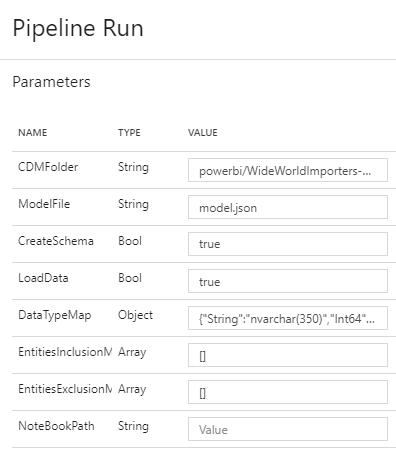
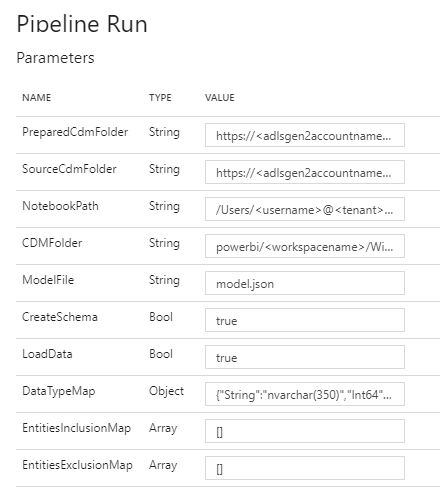
Updated tutorial for clarity, revised ADF params screenshot

diff --git a/Tutorial/CDM-Azure-Data-Services-Integration-Tutorial.md b/Tutorial/CDM-Azure-Data-Services-Integration-Tutorial.md
@@ -50,7 +50,7 @@ Clone or download the repo to your local machine so you have access to these fil
 ### 3.2	Create an Azure resource group
 It’s recommended that you create a new Azure resource group and use it for all Azure resources created in the tutorial.  When you finish the tutorial, delete this resource group to delete all resources.  
 
-> Note: create Azure resources in the same location as your Power BI tenant.  See, [Where is my Power BI tenant located?](https://docs.microsoft.com/power-bi/service-admin-where-is-my-tenant-located)
+> NOTE: create Azure resources in the same location as your Power BI tenant.  See, [Where is my Power BI tenant located?](https://docs.microsoft.com/power-bi/service-admin-where-is-my-tenant-located)
 
 ### 3.3	Create a standard storage account and container for uploading files
 For uploading files used in the tutorial, create a standard (not premium) storage account. This must be a regular storage account, separate from the ADLS Gen2 account.  Do not enable the hierarchical name space on this account. Once created, add a Blob container into which you will upload files.
@@ -194,15 +194,16 @@ In this section, you use an Azure Databricks notebook to process the data in the
         - [**Directory/Tenant ID**](https://docs.microsoft.com/azure/storage/common/storage-auth-aad-app#get-the-tenant-id-for-your-azure-active-directory)
     - Grant the service principal proper permission in Azure storage, which can be done in the Access control (IAM) section.
         - Grant the **Storage Blob Data Contributor** role on the ADLSgen2 account to the application Name or ID you just created.
-3.	To avoid hardcoding the Application ID, Application Key and Tenant ID values in your notebook, you should use Azure Databricks Secrets. Use [these](https://docs.azuredatabricks.net/user-guide/secrets/index.html#secrets-user-guide) instructions to create a secret scope and secrets for the above values. You can also just paste your credentials into the notebook, but that is not recommended.
-4.	Assign appropriate values to the following variables in the notebook. Values to be replaced are also indicated in the notebook in angle brackets <>
+        >NOTE: You need owner permissions on the ADLS Gen2 storage account to do this. 
+3.	To avoid hardcoding the Application ID, Application Key and Tenant ID values in your notebook, you should use Azure Databricks Secrets. Use [these](https://docs.azuredatabricks.net/user-guide/secrets/index.html#secrets-user-guide) instructions to create a secret scope (an Azure Key Vault) and secrets for the above values. You can also just paste your credentials into the notebook, but that is not recommended.
+4.	Assign appropriate values to the following variables in the notebook. Values to be replaced are also indicated in the notebook in angle brackets <>.
 
     |Variable| Value to be assigned|
     |--------|---------------------|
     |inputLocation| Location of the model.json in the input CDM folder. If you are using this notebook as part of an ADF pipeline, populate this from ADF. The values to be replaced in the notebook are **\<adlsgen2accountname\>** and **\<workspacename>**|
-    |outputLocation	| Location of the output CDM folder. This will be created if it does not exist.  If you are using this notebook as part of an ADF pipeline, populate this from ADF. <br> The values to be replaced in the notebook are  **\<adlsgen2accountname>** and **\<workspacename>** <br> <br>  IMPORTANT: It is recommended that the output folder is pre-created if you want to assign specific permissions to the folder and its content. Output data files created within that folder will then inherit those permissions. Not setting permissions first will require you to set the permissions manually file by file. Permissions can be set in Azure Storage Explorer.|
-    | appID	| If you have created a secret scope in Step 3 above, replace  **\<secretscope> ** in the notebook with the scope name you have created. You can also specify the value directly in the notebook that you got from Step 2 above, that is not recommended |
-    | appKey | If you have created a secret scope in Step 3 above, replace  **\<secretscope> ** in the notebook with the scope name you have created. You can also specify the value directly in the notebook that you got from Step 2 above, that is not recommended | 
+    |outputLocation	| Location of the output CDM folder. This will be created if it does not exist.  If you are using this notebook as part of an ADF pipeline, populate this from ADF. <br> The values to be replaced in the notebook are  **\<adlsgen2accountname>** and **\<workspacename>** <br> <br>  IMPORTANT: It is recommended that the output folder is pre-created if you want to assign specific permissions (POSIX ACLs) to the folder and its content. Output data files created within that folder will then inherit those permissions. Not setting permissions first will require you to set the permissions manually file by file. Permissions can be set in Azure Storage Explorer.|
+    | appID	| If you have created a secret scope in Step 3 above, replace  **\<secretscope>** in the notebook with the scope name you have created. You can also specify the value directly in the notebook that you got from Step 2 above, that is not recommended |
+    | appKey | If you have created a secret scope in Step 3 above, replace  **\<secretscope>** in the notebook with the scope name you have created. You can also specify the value directly in the notebook that you got from Step 2 above, that is not recommended | 
     | tenantID	| If you have created a secret scope in Step 3 above, replace  **\<secretscope>** in the notebook with the scope name you have created. You can also specify the value directly in the notebook that you got from Step 2 above, that is not recommended | 
 
 5.	Run All cells in the notebook toolbar. 
@@ -224,7 +225,7 @@ In the sample there are a series of helper methods that use this library to make
 
 #### 4.3.2	Train and publish the machine learning model using data from the CDM folder
 
-Using the **cdm-customer-classification-demo.ipynb** notebook file, load and execute the notebook via a local/remote Jupyter installation or a notebooks.azure.com account. This notebook focuses on some of the unique value when using CDM data in a model.
+Using the **cdm-customer-classification-demo.ipynb** notebook file, load and execute the notebook via a local/remote Jupyter installation or a [notebooks.azure.com](https://notebooks.azure.com) account. This notebook focuses on some of the unique value when using CDM data in a model.
 
 #### 4.3.3	Integrate into Azure Machine Learning services
 In the previous step the ML model is trained but not operationalized/deployed and makes no use of Azure Machine Learning services for experimentation management or deployment. To learn how do to do this complete the below tutorial to understand the steps involved in using these capabilities and then apply the learning/skills to the CDM sample notebook from 4.3.2.
@@ -254,19 +255,21 @@ The pipeline shown above:
 - Creates and then loads tables in SQL Data Warehouse using the CDM folder created by Databricks notebook.
 To invoke the Azure Machine Learning notebook with the location of the prepared CDM folder, you can invoke any custom endpoint with a [Web Activity in ADF](https://docs.microsoft.com/azure/data-factory/control-flow-web-activity) added to the pipeline.
 
+If you are not using Databricks, an alternate pipeline template is provided that omits the PrepareData activity.  
+
 #### 4.5.1	Use Azure Data Factory to create and load staging tables from a CDM folder 
-In this section, using the data in the new CDM Folder, you create and load staging tables in the SQL Data Warehouse you created earlier.  This process is orchestrated by a sample ADF pipeline, which uses custom activities, implemented as serverless Azure Functions, to read the entity definitions from the model.json file in the CDM folder and generate the T-SQL script for creating the staging tables, and then maps the entity data to these tables.  Generating the schema and loading the data are both optional, so you can choose how best to use the pipeline during development and runtime scenarios.  
+In this section, using the CDM Folder, you create and load staging tables in the SQL Data Warehouse you created earlier.  This process is orchestrated by an ADF pipeline, which uses custom activities, implemented as serverless Azure Functions, to read the entity definitions from the model.json file in the CDM folder and generate the T-SQL script for creating the staging tables, and then maps the entity data to these tables.  Generating the schema and loading the data are both optional, so you can choose how best to use the pipeline during development and runtime scenarios.  
 
 ##### 4.5.1.1	Deploy an Azure function to be used in the data factory 
 First, you need to deploy the Azure function to read the entity definitions from the model.json file and generate the scripts to create the staging tables. 
-1.	Download the folder [arm-template-azure-function-app](https://github.com/Azure-Samples/cdm-azure-data-services-integration/tree/master/AzureDataFactory/arm-template-azure-function-app).
+1.	Download the folder [arm-template-azure-function-app](https://github.com/Azure-Samples/cdm-azure-data-services-integration/tree/master/AzureDataFactory/arm-template-azure-function-app)
 2.	You will need to [deploy a function app](https://docs.microsoft.com/en-us/azure/azure-resource-manager/resource-group-template-deploy) with Azure PowerShell to host the execution of your functions. To do so, first edit the file **“parameters.json”** in the downloaded folder with appropriate values.
 
 | Parameter | Value to be assigned |
 |-----------|----------------------|
 |`sites_cdmparser_name`|	Globally unique name that identifies your new function app. Valid characters are a-z, 0-9, and -.|
 |`serverfarms_cdmparserPlan_name`|	The Azure function app runs on an [App Service Plan](https://docs.microsoft.com/azure/azure-functions/functions-scale#app-service-plan). This is a unique name for the name of your app service plan.|
-|`storageAccounts_cdmparserstorage_name` |	Name of the storage account used by your function app. You can create a new one or use an existing one.|
+|`storageAccounts_cdmparserstorage_name` |	Name of the blob storage account used by your function app. You can create a new one or use an existing one.  Do not use an ADLS Gen2 account.|
 |`hostNameBindings_cdmparser.azurewebsites.net_name` |	This will be in format of `"<sites_cdmparser_name>.azurewebsites.net"` where the first part of the URL is the value of the first parameter value you specified for `"sites_cdm_parser_name"` |
 
 3.	Execute “deploy.ps1” with PowerShell. You will need to provide the Resource Group name you wish to deploy the application. You should see the following in your resource group if you correctly deployed the Azure Function app.
@@ -293,7 +296,7 @@ First, you need to deploy the Azure function to read the entity definitions from
 |-----------|----------------------|
 |`factoryName` |	The name of your ADFV2 data factory you deployed.|
 |`ADLSGen2_accountKey`	| Account key for the Data Lake Storage Gen2 service you created in step 3.4. |
-|`AzureStorage_connectionString` |	Reference the storage connection string you created in step 3.3.|
+|`AzureStorage_connectionString` |	Reference the standard blob storage connection string you created in step 3.3.|
 |`AzureSqlDW_connectionString` |	Reference the DW connection string you created in step 4.4.1.|
 |`ADLSGen2_properties_typeProperties_url` |	Endpoint for the Data Lake Storage Gen2 with the pattern of `https://<accountname>.dfs.core.windows.net` you created in step 3.4|
 |`CDMParserUrl` |	This is the URL of your Azure Function app you created in 4.5.1.|
@@ -316,7 +319,13 @@ First, you need to deploy the Azure function to read the entity definitions from
 
 ![](media/mountcdmpipeline.png)
  
-The CDMPreptoDW pipeline invokes your Databricks notebook, ingests your data from the CDM folder, creates the target schema in the DW, and lands the data.  When running the pipeline, you will see that there are parameters to the pipeline with default values being passed. You can adjust these values depending on your scenario. This is the pipeline for the CDMPreptoDW that invokes the Databricks data preparation notebook as well. If you deployed the data factory that does not invoke databricks, you will just not have the "PrepareData" activity.
+The CDMPrepToDW pipeline invokes your Databricks notebook, ingests your data from the CDM folder, creates the target schema in the DW, and lands the data.  
+
+Before you run the pipeline, modify the Databricks connection/linked service and confiure it to use the interactive cluster you tested the notebook with earlier.  To do that you will need to provide the Domain/Region and the access token you created earlier. 
+
+You will also need to modify the pipeline parameters. You can set these values depending on your scenario.  You can modify these in the pipeline definition or when you run the pipeline.
+
+>NOTE: The CDMPrepToDW pipeline shown invokes the Databricks data preparation notebook and then loads the data from the prepared CDM folder. If you deployed the pipeline template that doesn't invoke Databricks, the "PrepareData" activity will not be present.
 
 ![](media/pipelineparameters.png)
 
@@ -325,14 +334,17 @@ The CDMPreptoDW pipeline invokes your Databricks notebook, ingests your data fro
 |SourceCdmFolder | Location of the source CDM folder (this is for the pipeline that invokes Databricks) |	https://\<adlsgen2accountname>.dfs.core.windows.net/powerbi/\<workspacename>/WideWorldImporters-Sales/model.json |
 | PreparedCdmFolder | Location of the output CDM folder in ADLS Gen2 (this is for the pipeline that invokes Databricks) | https://\<adlsgen2accountname>.dfs.core.windows.net/powerbi/\<workspacename>/WideWorldImporters-Sales-Prep <br> Note: use a different location than the one used in the notebook itself.|
 |CDMFolder | File path of the CDM data in the ADLS Gen 2 account | 	powerbi/\<workspacename>/WideWorldImporters-Sales-Prep. This should be the same latter file path as your “PreparedCdmFolder" parameter from Databricks. |
-| ModelFile | Name of the model file | model.json |
+|NotebookPath|Location of the Databricks notebook|/Users/\<user\>@\<tenant\>/read-write-demo-wide-world-importers|
+|ModelFile | Name of the model file | model.json |
 |CreateSchema | Create the table schema on the destination for each included CDM Entity. | true <br> Mark as false if the target schema has already been created or this will throw an error.	| true |
 | LoadData | Load data into the destination. (Mark as false if you don’t want the pipeline to load data into the DW) | true |
 | DataTypeMap	| Object that contains a list of datatype mappings between CDM and SQL datatypes.  Adjust for your data.	| { <br>      "String":"nvarchar(350)", <br> "Int64":"int", <br> "DateTime":"datetime", <br> "Boolean":"bit", <br> "Double":"float", <br> "Decimal":"float", <br> "DateTimeOffset":"DateTimeOffset" <br> } |
 |EntitiesInclusionMap | Array of CDM entities you want to copy. If empty, pipeline will load all entities. | [] |
 | EntitiesExclusionMap | Array of CDM entities you want to exclude from copy. If empty, pipeline will load all entities. | [] | 
 
-Once the ADF pipeline has completed, inspect the data warehouse using SSMS.  You should see the eight staging tables, each of which is populated with data. 
+With all the parameters provided, run the pipeline and monitor its progress in ADF. 
+
+Once the pipeline has completed, inspect the data warehouse using SSMS.  You should see the eight staging tables, each of which is populated with data. 
 
 ### 4.6	Deploy the dimensional schema to the DW and transform the staged data
 
@@ -354,7 +366,7 @@ Review the SQL file to see the patterns used.
 
 #### 4.6.2	Execute the transform procedures to populate the dimensional model
 Execute the transform procedures to populate the dimension and fact tables.  
-1.	In SSMS, run the following statement: `EXEC spTransformWideWorldImporters -Orders`
+1.	In SSMS, run the following statement: `EXEC spTransformWideWorldImporters-Sales`
 
 This procedure invokes transform procedures for each dimension table and then the fact table.  Review the SQL for each procedure to see the patterns used. 
 
@@ -362,8 +374,10 @@ This procedure invokes transform procedures for each dimension table and then th
 
 At this point you have transformed the data in the staging tables and can now explore the dimensional model in the data warehouse.  The data in the data warehouse is consistent with the data extracted from the original Wide World Importers database using Power BI dataflows and prepared by Databricks.  
 
-## 5	Conclusion
-Congratulations if you made it to the end. The tutorial is intended to give you a first look at how to use CDM folders to share data between Power BI and Azure Data Services.  The samples provided with this tutorial are intended only to let you explore the scenario and should not be used in production applications. Please use the "issues" feature in this GitHub repo to share feedback, questions or issues.
+## 6	Conclusion
+Congratulations if you made it to the end! In a real world scenario you would want to set up a schedule for refreshing the Power BI dataflow and a comparable schedule in ADF to prepare and load the refreshed data into the data warehouse (without creating the staging table schema).  
+
+This tutorial provides a first look at how to use CDM folders to share data between Power BI and Azure Data Services.  The samples provided with this tutorial are intended to let you begin to explore the scenario and should not be used in production applications. Please use the "issues" feature in this GitHub repo to share feedback, questions, or issues.
 
 ## 6	Additional Resources
 To learn more about Power BI dataflows, CDM, and Azure Data Services, follow the links below:
